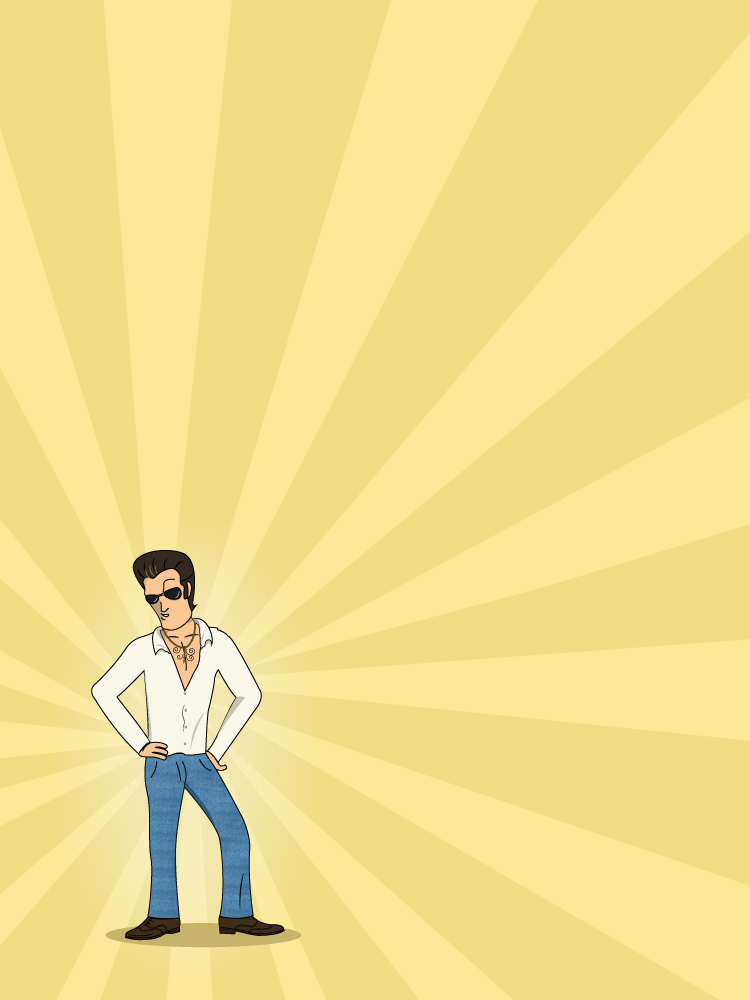
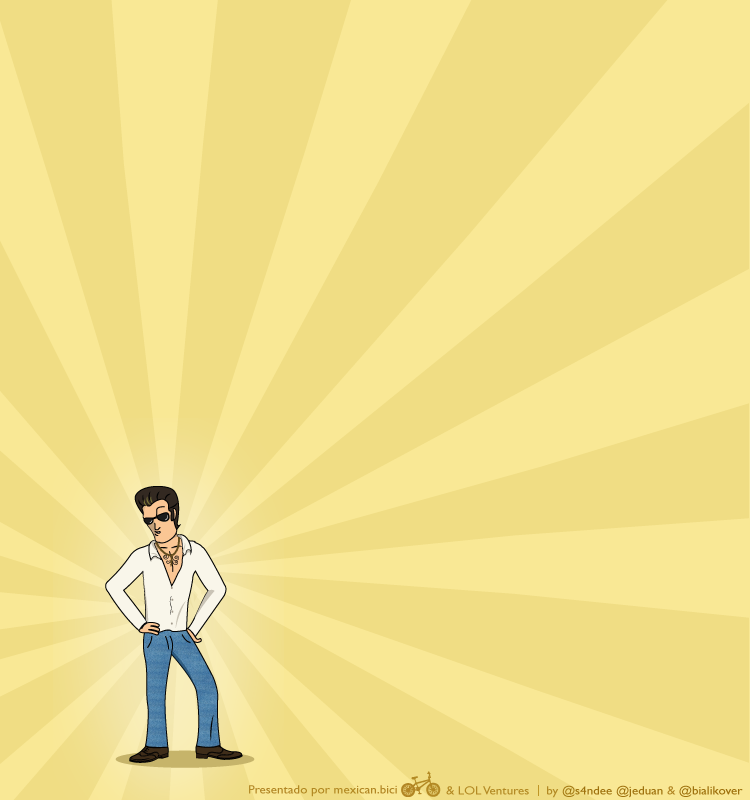
Nuevas imagenes, el estilo esta mejorado y se adapta a los 800px que nos da facebook en laptops

Changed region(s): [[0.1227, 0.5312, 0.7053, 1.0], [0.736, 0.9688, 0.9813, 1.0]]

diff --git a/css/styles.css b/css/styles.css
@@ -17,9 +17,9 @@ font: normal 12px "Lucida Grande", "Lucida Sans Unicode", Geneva, Arial, Verdana
 
 .container {
    background: white url(../images/fondo_mirrey.png) top center no-repeat;   
-   min-height: 1000px;
+   min-height: 800px;
    height:auto !important;
-   height: 1000px;
+   height: 800px;
 }
 
 h1.logo {
